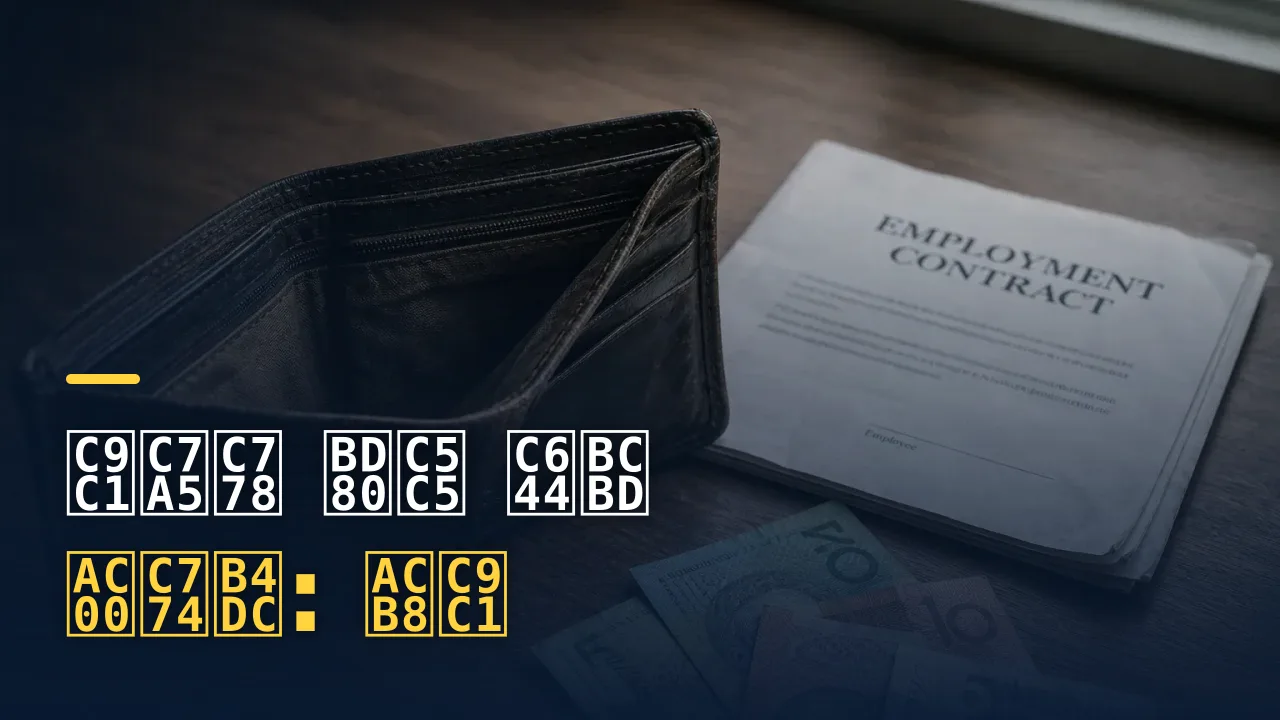
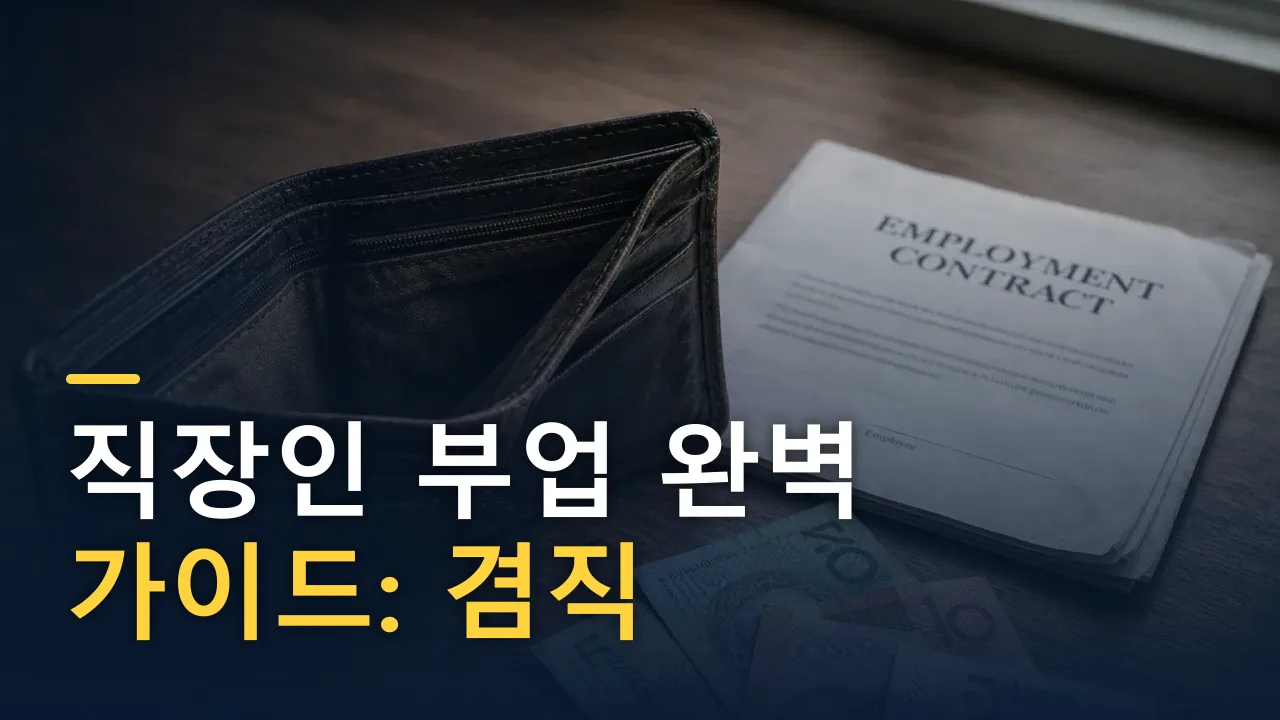
fix(thumb): 자동발행 썸네일 한글 깨짐(tofu) 수정
- publish.yml: Ubuntu 러너에 한글 폰트(noto-cjk, nanum) 설치 — Actions 환경 폰트 부재로 헤드라인이 .notdef 박스로 깨지던 근본 원인 제거
- gen-yt-thumb.js: font-family에 Linux 한글 폴백 추가 + frontmatter 정규식 CRLF 대응(\r?\n)
- 06-30 자동발행분(부업 가이드) 썸네일 재생성

Changed region(s): [[0.0312, 0.5806, 0.6875, 0.8861]]

diff --git a/automation/gen-yt-thumb.js b/automation/gen-yt-thumb.js
@@ -14,6 +14,9 @@ import { BLOG_DIR, PUBLIC_IMG } from './lib/util.js';
 const __dirname = path.dirname(fileURLToPath(import.meta.url));
 const W = 1280, H = 720;
 const NAVY = '#0a1b33', YELLOW = '#ffd23e', WHITE = '#ffffff';
+// 한글 폰트: 로컬(Windows)=Malgun Gothic, 무인 발행(Ubuntu/Actions)=Noto/Nanum 폴백.
+// 폴백이 없으면 .notdef(코드포인트 hex) tofu 박스로 깨짐 → publish.yml에서 폰트 설치도 함께.
+const FONT = 'Malgun Gothic, Apple SD Gothic Neo, Noto Sans CJK KR, NanumGothic, sans-serif';
 
 const esc = (s) => String(s ?? '').replace(/&/g, '&amp;').replace(/</g, '&lt;').replace(/>/g, '&gt;').replace(/"/g, '&quot;');
 const visLen = (s) => String(s).replace(/\s/g, '').length || 1;
@@ -67,15 +70,15 @@ function buildFront(lines) {
   return Buffer.from(`<svg xmlns="http://www.w3.org/2000/svg" width="${W}" height="${H}">
   <defs><filter id="sh" x="-25%" y="-25%" width="150%" height="170%"><feGaussianBlur stdDeviation="8"/></filter></defs>
   <rect x="${x + 2}" y="${baseY - fs1 - 32}" width="74" height="10" rx="5" fill="${YELLOW}"/>
-  <text font-family="Malgun Gothic" font-size="${fs1}" font-weight="bold" fill="#000" opacity="0.66" filter="url(#sh)">${shadow}</text>
-  <text font-family="Malgun Gothic" font-size="${fs1}" font-weight="bold">${colored}</text>
+  <text font-family="${FONT}" font-size="${fs1}" font-weight="bold" fill="#000" opacity="0.66" filter="url(#sh)">${shadow}</text>
+  <text font-family="${FONT}" font-size="${fs1}" font-weight="bold">${colored}</text>
 </svg>`);
 }
 
 function readFm(slug) {
   const file = path.join(BLOG_DIR, `${slug}.mdx`);
   const raw = fs.readFileSync(file, 'utf8');
-  const fm = (raw.match(/^---\n([\s\S]*?)\n---/) || [, ''])[1];
+  const fm = (raw.match(/^---\r?\n([\s\S]*?)\r?\n---/) || [, ''])[1]; // CRLF 체크아웃(Windows) 대응
   const get = (k) => { const r = fm.match(new RegExp(`^${k}:\\s*(.+)$`, 'm')); return r ? r[1].trim().replace(/^['"]|['"]$/g, '') : ''; };
   return { file, raw, title: get('title'), thumbTitle: get('thumbTitle'), heroImage: get('heroImage') };
 }